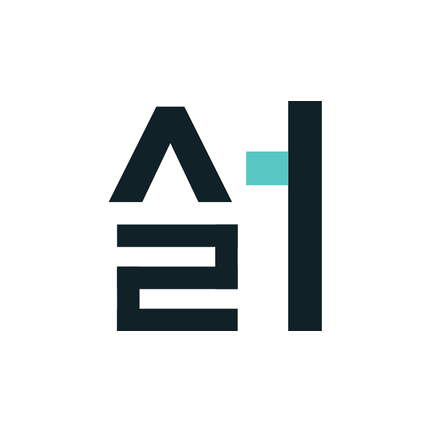
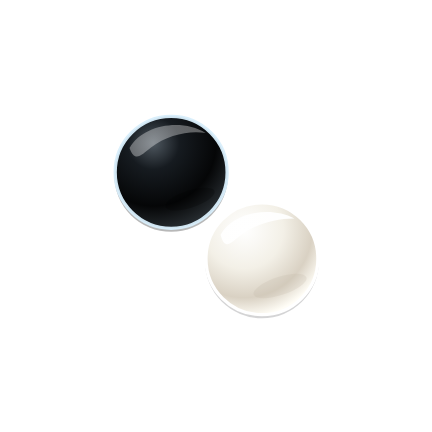
Android 서리 공용 앱 아이콘을 리버시 아이콘으로 교체 (#163)
기존 Play 흑백 돌 아트를 일반·적응형 Android 아이콘에 적용한다. 아이콘 크기·안전 영역·회귀 검사 통과 및 중앙 배포 근거 누락 상태를 기록한다.

Refs #162

Changed region(s): [[0.2407, 0.2106, 0.7523, 0.7824]]

diff --git a/docs/04-work/work-log.md b/docs/04-work/work-log.md
@@ -1,5 +1,17 @@
 # Work Log
 
+## 2026-11-15 — Android 앱 아이콘 수정
+
+- 사용자 요청으로 서리 공용 아이콘 사용 여부를 확인했다. Android export preset이 참조하는 `godot/branding/android/launcher_192.png`와 `adaptive_foreground_432.png`가 실제 서리 로고였다. Play 등록 아이콘은 이미 리버시 흑백 돌이라 설치 앱과 달랐다.
+- 새 아트를 도입하지 않고 `play-store/assets/icon-512.png`와 `icon-512.source.html`의 기존 Moonlit Lacquer 흑백 돌을 재사용했다. 일반 아이콘은 192×192 RGB, 적응형 전경은 432×432 RGBA, 배경은 432×432 RGB다.
+- 적응형 전경은 512px 원본에서 돌 레이어만 0.546875배로 축소하고 (76, 76)px에 놓았다. 배경은 원본의 lacquer·moon 레이어를 432×432로 렌더링했다. 전경의 불투명 픽셀 최대 반경은 121.723px로 Godot/Android의 중앙 안전 반경 132px 안에 들어간다. 중앙 288×288 영역에 원형·둥근 사각형 마스크를 적용한 미리보기를 직접 확인했다.
+- 변경은 Android PNG 3개뿐이다. export 설정·식별자·게임 로직·저장·SDK 연결·시작 스플래시는 바꾸지 않았다. iOS와 AppsInToss 아이콘은 공용 서리 로고가 아니므로 이번 수정에 포함하지 않는다.
+- 검증: Godot 4.7.2에서 `npm test` 통과(core, architecture, import, compile, smoke 484개, docs). `npm run check:release`도 placeholder 없음으로 통과했다. 바이너리 에셋 교체이므로 별도 구현 대응 테스트·로컬 모델 코드 리뷰는 추가하지 않았다.
+- 배포는 미완료다. 최신 중앙 계약 `5d7f6d3`의 `verify-development-evidence.mjs --target google-play --phase before-build`가 현재 main에서 `DEVELOPMENT_EVIDENCE_ARCHIVE_MISSING`으로 종료했다. `docs/qa/feature-inventory.json`, 승인 설계와 `test-plan.json`, E1~E8 E2E 및 후보 SHA에 결속한 개발 근거 Release가 없어 기존 smoke 결과만으로 빌드·업로드·공개를 승인할 수 없다. 검사 우회나 가짜 통과 기록을 만들지 않는다.
+- 증적 보관 위치: `smb://nas1dual/Data/Backup/agent-artifacts/lucid-reversi/2026-11-15/2270374904fce0530b8285e48fecb9948071d665/android-icon`(PNG 검수 원본, 실행 로그, 해시 검증 목록).
+- Play Console readback: 기존 `Seolee Apps` 계정의 현재 표시명은 `Seori Apps`, 개인 계정 ID는 `5547060480954653351`로 동일했다. 이 계정에서 `com.etlegame.reversi` / `Lucid Reversi`를 확인했고, 대시보드는 프로덕션 100% 및 미게시 변경 없음으로 표시했다. 이 기록은 수정 아이콘의 배포 완료를 뜻하지 않는다.
+- 추적: [#162](https://github.com/seorilabs/lucid-reversi/issues/162). 사용자의 마켓 배포 지시는 유효하나 중앙 검증 차단은 별도 해결해야 한다. 기기 조회·설치·실행은 하지 않았다.
+
 ## 2026-09-18
 
 - Approved direction B, Moonlit Lacquer, as the representative gameplay-screen visual baseline.
